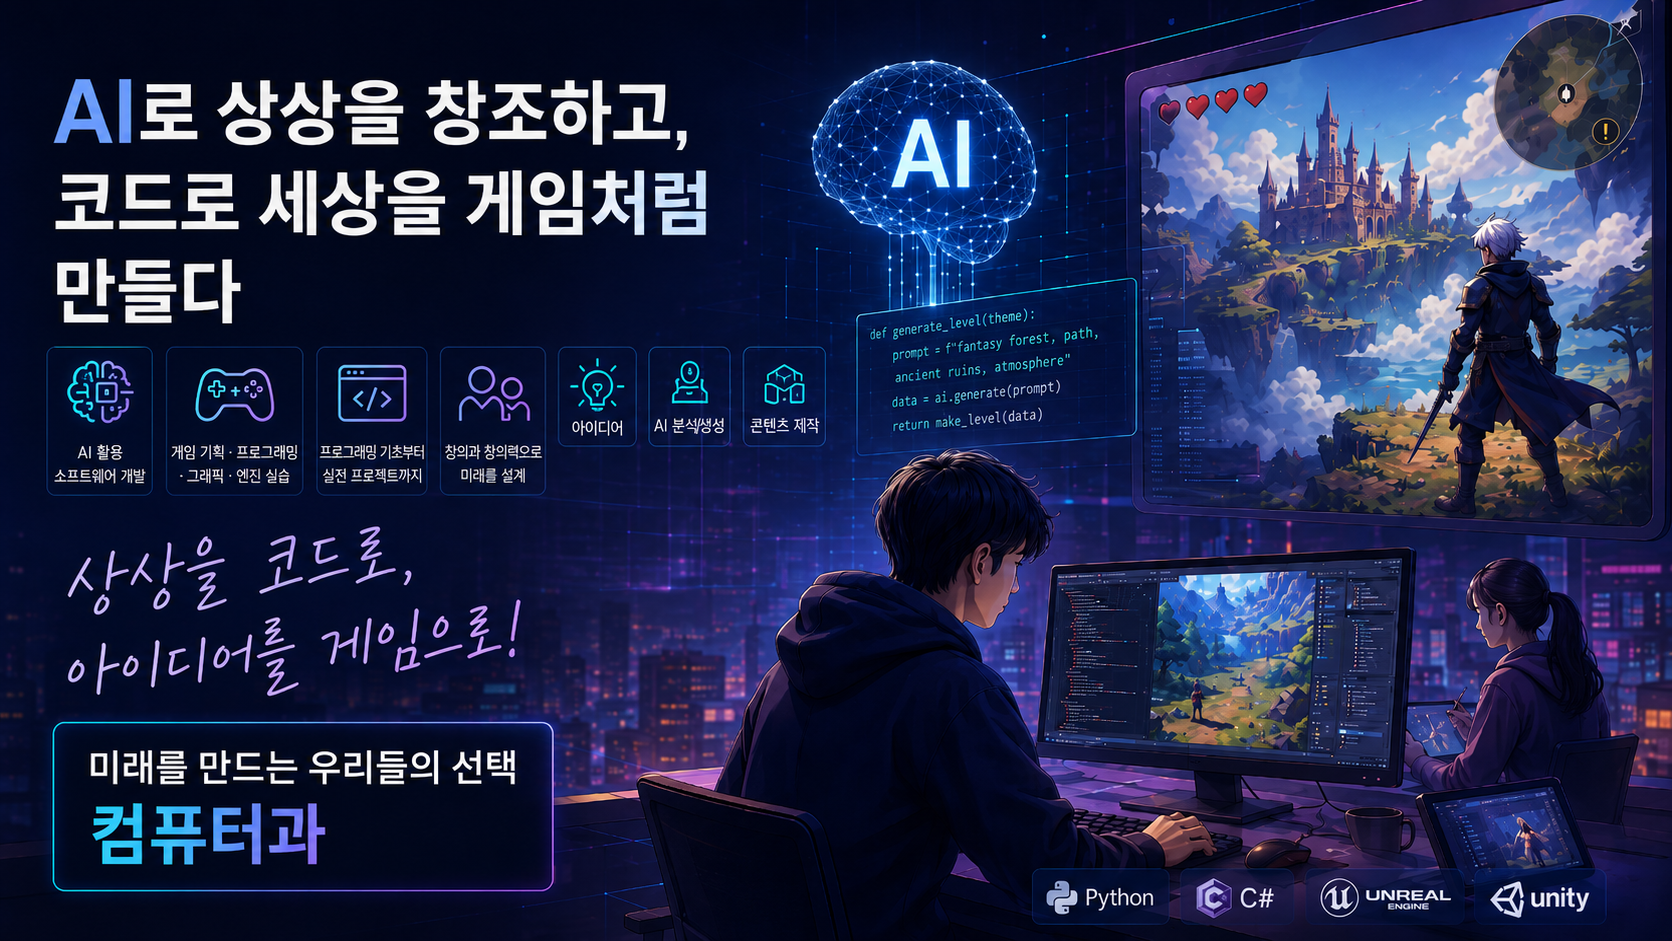
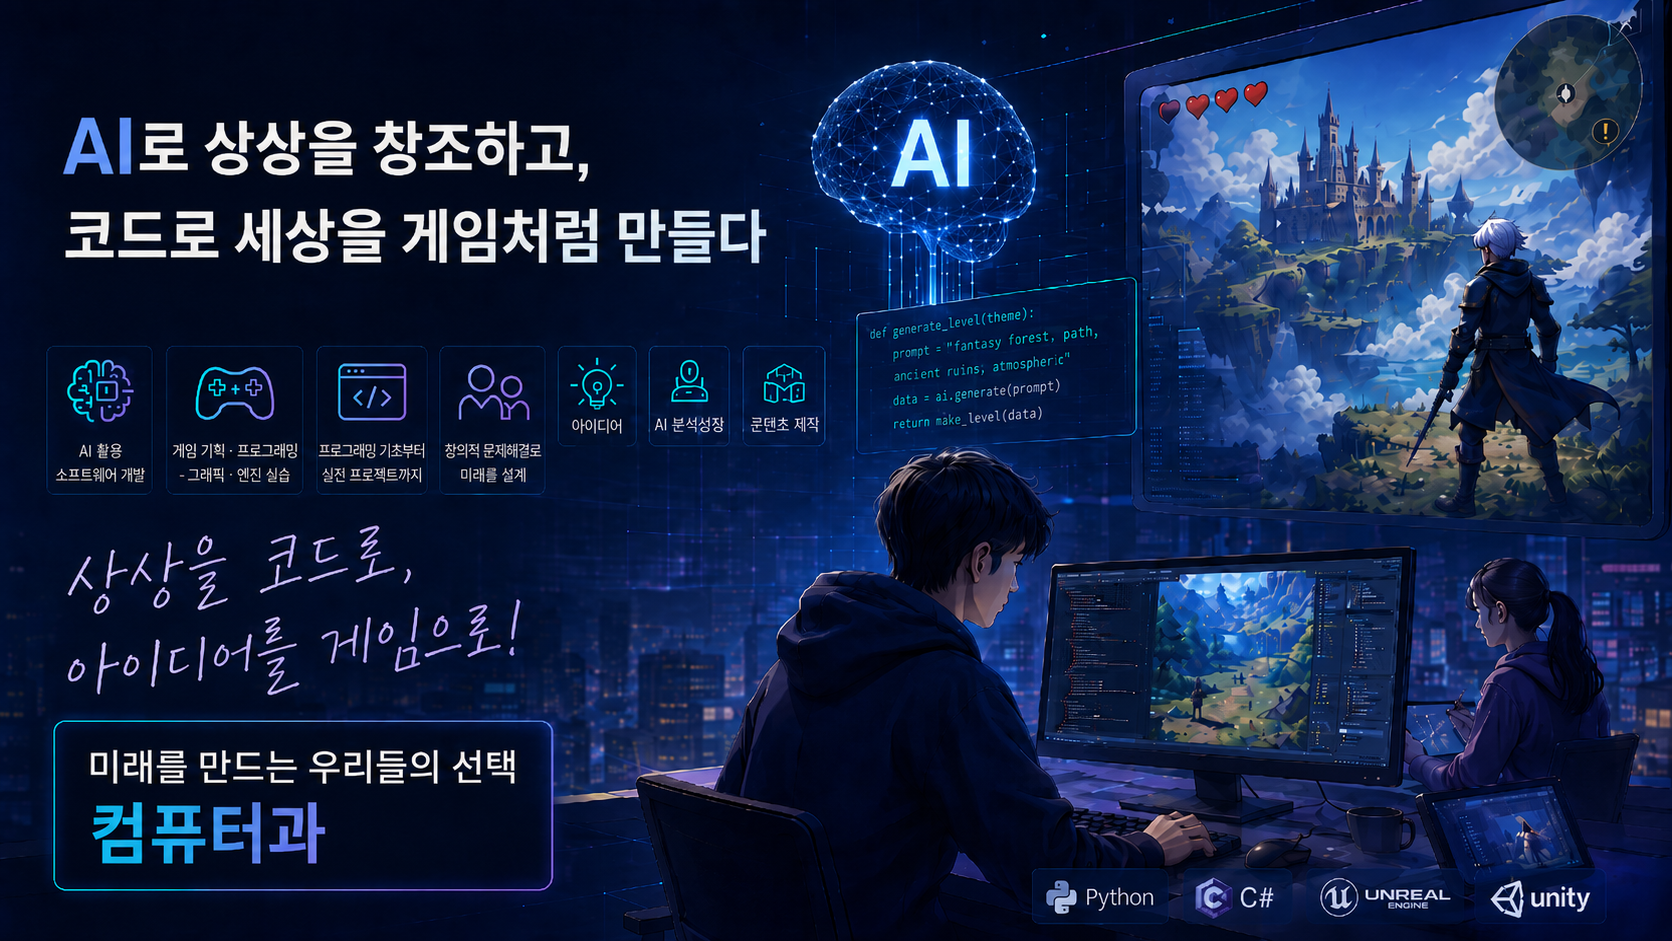
모바일 대응 보완: 햄버거 메뉴 추가, 첫 이미지 여백 정리
- ≤860px 햄버거(☰) 메뉴 + 드롭다운(모든 메뉴 접근), 링크 클릭 시 닫힘
- 모바일 키비주얼 섹션 min-height:100vh→auto 로 빈 공간 축소
- 이미지 에셋 갱신(aicom.png, future.png)

diff --git a/index.html b/index.html
@@ -367,9 +367,70 @@
             transform: translateY(-1px)
         }
 
+        .nav-toggle {
+            display: none;
+            width: 42px;
+            height: 42px;
+            flex-direction: column;
+            justify-content: center;
+            gap: 5px;
+            background: none;
+            border: 0;
+            cursor: pointer;
+            padding: 0
+        }
+
+        .nav-toggle span {
+            display: block;
+            width: 24px;
+            height: 2px;
+            margin: 0 auto;
+            background: var(--text);
+            border-radius: 2px;
+            transition: .3s
+        }
+
         @media(max-width:860px) {
+            .nav-toggle {
+                display: flex
+            }
+
             .nav-links {
-                display: none
+                position: absolute;
+                top: 100%;
+                left: 0;
+                right: 0;
+                flex-direction: column;
+                gap: 0;
+                background: rgba(10, 14, 26, .98);
+                backdrop-filter: blur(14px);
+                border-bottom: 1px solid var(--line);
+                max-height: 0;
+                overflow: hidden;
+                transition: max-height .35s ease
+            }
+
+            nav.open .nav-links {
+                max-height: 84vh
+            }
+
+            .nav-links a {
+                padding: 15px 24px;
+                font-size: 1rem;
+                color: var(--text);
+                border-top: 1px solid var(--line)
+            }
+
+            nav.open .nav-toggle span:nth-child(1) {
+                transform: translateY(7px) rotate(45deg)
+            }
+
+            nav.open .nav-toggle span:nth-child(2) {
+                opacity: 0
+            }
+
+            nav.open .nav-toggle span:nth-child(3) {
+                transform: translateY(-7px) rotate(-45deg)
             }
         }
 
@@ -669,16 +730,17 @@
         }
 
         #top .wrap {
-            max-width: none;
+            max-width: var(--maxw);
             width: 100%;
-            padding: 0;
-            margin: 0;
+            padding: 0 24px;
+            margin: 0 auto;
             height: auto
         }
 
         @media(max-width:600px) {
             #top.keyvisual {
-                padding-top: 64px
+                padding: 78px 0 36px;
+                min-height: auto
             }
         }
 
@@ -692,7 +754,7 @@
         /* 이미지 높이를 화면 안에 맞춰 아래가 잘리지 않도록 제한 + 모서리 페이드 */
         .kv-img {
             display: block;
-            width: auto;
+            width: 100%;
             height: auto;
             max-width: 100%;
             max-height: calc(100vh - 110px);
@@ -2010,6 +2072,9 @@
                 <a href="#career">졸업후진로</a>
                 <a href="#contact">입학상담</a>
             </div>
+            <button class="nav-toggle" id="navToggle" aria-label="메뉴 열기/닫기" aria-expanded="false">
+                <span></span><span></span><span></span>
+            </button>
         </div>
     </nav>
 
@@ -2043,8 +2108,8 @@
             <div>
                 <div class="greet mono fade-up">// Hello, World! 👋</div>
                 <h1>
-                    <span class="line-mask"><span>미래의 IT 세상을</span></span>
-                    <span class="line-mask d1"><span class="grad">코딩하다.</span></span>
+                    <span class="line-mask"><span>미래의 산업을 이끄는</span></span>
+                    <span class="line-mask d1"><span class="grad">컴퓨터과의 비전</span></span>
                 </h1>
                 <p class="sub fade-up d2">부산 SW·AI 인재의 산실, <b>부일전자디자인고등학교 컴퓨터과.</b><br>기초부터 실무까지, 코드로 미래를 설계하는 3년을
                     시작하세요.</p>
@@ -2053,9 +2118,9 @@
         <a href="#curriculum" class="btn btn-ghost magnetic">📄 학과 리플렛 보기</a>
       </div> -->
                 <div class="hero-stats">
-                    <div class="s"><b>2026</b><span>AI 중점학교 지정</span></div>
-                    <div class="s"><b>7+</b><span>취득 가능 자격증</span></div>
-                    <div class="s"><b>전국</b><span>기능경기 입상</span></div>
+                    <div class="s"><b>2026년</b><span>AI 중점학교 지정</span></div>
+                    <div class="s"><b>AI활용능력</b><span>시작만하면 된다</span></div>
+                    <div class="s"><b>기능인재</b><span>전국최고의 기능인재</span></div>
                 </div>
             </div>
             <div>
@@ -2086,7 +2151,7 @@
     <section id="ai" class="sec-pad">
         <div class="wrap">
             <div class="reveal">
-                <h2 class="title">최신 트렌드를 선도하는 미래형 학과</h2>
+                <h2 class="title">2026학년도 AI 중점학교 운영</h2>
                 <p class="lead">인공지능(AI) 기반 교육과 최첨단 기자재로, 시대가 원하는 진짜 개발자를 길러냅니다.</p>
             </div>
 
@@ -2118,80 +2183,6 @@
                 </div>
             </div>
 
-            <!-- 최신 생성형 AI 도구 쇼케이스 -->
-            <div class="ai-tools reveal">
-                <div class="th">
-                    <span class="live">LIVE · 2026</span>
-                </div>
-                <h3>세계가 주목하는 <span class="grad">생성형 AI</span>를 교실에서 직접 다룹니다</h3>
-                <p class="desc">최신 트렌드에 발맞춰, 글로벌 대표 AI 도구를 수업·프로젝트·기능경기 준비에 실제로 활용합니다. 도구를 '쓸 줄 아는' 것을 넘어 '잘 활용하는' 개발자로
-                    성장합니다.</p>
-                <div class="ai-logos">
-                    <!-- Claude -->
-                    <div class="ai-logo" title="Anthropic Claude">
-                        <span class="lg lg-claude">
-                            <svg viewBox="0 0 100 100" fill="#fff" aria-hidden="true">
-                                <g>
-                                    <rect x="46.5" y="8" width="7" height="38" rx="3.5" />
-                                    <rect x="46.5" y="8" width="7" height="38" rx="3.5" transform="rotate(30 50 50)" />
-                                    <rect x="46.5" y="8" width="7" height="38" rx="3.5" transform="rotate(60 50 50)" />
-                                    <rect x="46.5" y="8" width="7" height="38" rx="3.5" transform="rotate(90 50 50)" />
-                                    <rect x="46.5" y="8" width="7" height="38" rx="3.5" transform="rotate(120 50 50)" />
-                                    <rect x="46.5" y="8" width="7" height="38" rx="3.5" transform="rotate(150 50 50)" />
-                                    <rect x="46.5" y="8" width="7" height="38" rx="3.5" transform="rotate(180 50 50)" />
-                                    <rect x="46.5" y="8" width="7" height="38" rx="3.5" transform="rotate(210 50 50)" />
-                                    <rect x="46.5" y="8" width="7" height="38" rx="3.5" transform="rotate(240 50 50)" />
-                                    <rect x="46.5" y="8" width="7" height="38" rx="3.5" transform="rotate(270 50 50)" />
-                                    <rect x="46.5" y="8" width="7" height="38" rx="3.5" transform="rotate(300 50 50)" />
-                                    <rect x="46.5" y="8" width="7" height="38" rx="3.5" transform="rotate(330 50 50)" />
-                                </g>
-                            </svg>
-                        </span>
-                        <span class="nm">Claude</span>
-                    </div>
-                    <!-- ChatGPT -->
-                    <div class="ai-logo" title="OpenAI ChatGPT">
-                        <span class="lg lg-gpt">
-                            <svg viewBox="0 0 24 24" fill="#fff" aria-hidden="true">
-                                <path
-                                    d="M22.28 9.82a5.98 5.98 0 0 0-.52-4.91 6.05 6.05 0 0 0-6.51-2.9A6.07 6.07 0 0 0 4.98 4.18a5.98 5.98 0 0 0-4 2.9 6.05 6.05 0 0 0 .74 7.1 5.98 5.98 0 0 0 .51 4.91 6.05 6.05 0 0 0 6.51 2.9A5.98 5.98 0 0 0 13.26 24a6.06 6.06 0 0 0 5.77-4.21 5.99 5.99 0 0 0 4-2.9 6.06 6.06 0 0 0-.75-7.07zm-9.02 12.6a4.48 4.48 0 0 1-2.88-1.04l.14-.08 4.78-2.76a.79.79 0 0 0 .39-.68v-6.74l2.02 1.17a.07.07 0 0 1 .04.05v5.58a4.5 4.5 0 0 1-4.49 4.5zM3.6 18.3a4.47 4.47 0 0 1-.53-3.01l.14.08 4.78 2.76a.77.77 0 0 0 .78 0l5.84-3.37v2.33a.08.08 0 0 1-.03.06l-4.83 2.79A4.5 4.5 0 0 1 3.6 18.3zM2.34 7.9a4.49 4.49 0 0 1 2.37-1.98v5.65a.77.77 0 0 0 .39.68l5.81 3.35-2.02 1.17a.08.08 0 0 1-.07 0l-4.83-2.79A4.5 4.5 0 0 1 2.34 7.9zm16.6 3.86-5.84-3.4L15.12 7.2a.08.08 0 0 1 .07 0l4.83 2.79a4.49 4.49 0 0 1-.68 8.1v-5.67a.79.79 0 0 0-.4-.67zm2.01-3.02-.14-.09-4.77-2.78a.78.78 0 0 0-.79 0L9.41 9.23V6.9a.07.07 0 0 1 .03-.06l4.83-2.79a4.5 4.5 0 0 1 6.68 4.66zM8.31 12.86l-2.02-1.16a.08.08 0 0 1-.04-.06V6.07a4.5 4.5 0 0 1 7.38-3.45l-.14.08L8.7 5.46a.79.79 0 0 0-.39.68zm1.1-2.37 2.6-1.5 2.61 1.5v3l-2.6 1.5-2.61-1.5z" />
-                            </svg>
-                        </span>
-                        <span class="nm">ChatGPT</span>
-                    </div>
-                    <!-- Gemini -->
-                    <div class="ai-logo" title="Google Gemini">
-                        <span class="lg lg-gemini">
-                            <svg viewBox="0 0 24 24" fill="#fff" aria-hidden="true">
-                                <path
-                                    d="M12 1c.35 5.9 5.1 10.65 11 11-5.9.35-10.65 5.1-11 11-.35-5.9-5.1-10.65-11-11C6.9 11.65 11.65 6.9 12 1Z" />
-                            </svg>
-                        </span>
-                        <span class="nm">Gemini</span>
-                    </div>
-                    <!-- Grok / xAI -->
-                    <div class="ai-logo" title="xAI Grok">
-                        <span class="lg lg-grok">
-                            <svg viewBox="0 0 24 24" fill="#fff" aria-hidden="true">
-                                <path d="M5.2 3h3.9l9.7 18h-3.9z" />
-                                <path d="M18.8 3h-3.9L5.2 21h3.9z" />
-                            </svg>
-                        </span>
-                        <span class="nm">Grok</span>
-                    </div>
-                    <!-- DeepSeek -->
-                    <div class="ai-logo" title="DeepSeek">
-                        <span class="lg lg-deep">
-                            <svg viewBox="0 0 24 24" fill="#fff" aria-hidden="true">
-                                <path
-                                    d="M2.4 13.4c0-3.6 3.7-6 7.5-5.3 1.8.3 3.3-.3 4.6-1.6.9-.9 1.5-2 2.1-3.1.2 1.5 0 3-.7 4.3.9-.2 1.7-.7 2.4-1.4-.2 2-1.4 3.7-3.2 4.6 1.4.5 2.9.4 4.3-.2-1 2-3.2 3.2-5.5 3-2.4 2.3-6.4 2.5-9.2.4a6.2 6.2 0 0 1-1.9-2.3c.9.7 2 1.1 3.2 1.1-1.7-.9-2.9-2.6-3.1-4.5.6.6 1.3 1 2.1 1.2a5 5 0 0 1-2.1-4.1c0-.1 0-.2 0-.3.2 3.2 2.9 5.7 6.1 5.7.1 0 .1 0 .2 0-.6-.3-1-.9-1-1.6 0-1 .8-1.8 1.8-1.8.5 0 1 .2 1.3.6a7.4 7.4 0 0 0 1.4-.1c-.5-.9-1.5-1.5-2.6-1.5-1.4 0-2.7.8-3.3 2-1.3-.1-2.5-.7-3.4-1.7 0 .1 0 .2 0 .3z" />
-                                <circle cx="14.6" cy="9.6" r=".7" fill="#4d6bfe" />
-                            </svg>
-                        </span>
-                        <span class="nm">DeepSeek</span>
-                    </div>
-                </div>
-            </div>
         </div>
     </section>
 
@@ -2478,6 +2469,22 @@
         // nav scroll
         const nav = document.getElementById('nav');
         addEventListener('scroll', () => nav.classList.toggle('scrolled', scrollY > 40));
+
+        // 모바일 햄버거 메뉴 토글
+        const navToggle = document.getElementById('navToggle');
+        if (navToggle) {
+            navToggle.addEventListener('click', () => {
+                const open = nav.classList.toggle('open');
+                navToggle.setAttribute('aria-expanded', open ? 'true' : 'false');
+            });
+            // 메뉴 링크 클릭 시 닫기
+            document.querySelectorAll('.nav-links a').forEach(a => {
+                a.addEventListener('click', () => {
+                    nav.classList.remove('open');
+                    navToggle.setAttribute('aria-expanded', 'false');
+                });
+            });
+        }
 
         // reveal on scroll
         const io = new IntersectionObserver((entries) => {